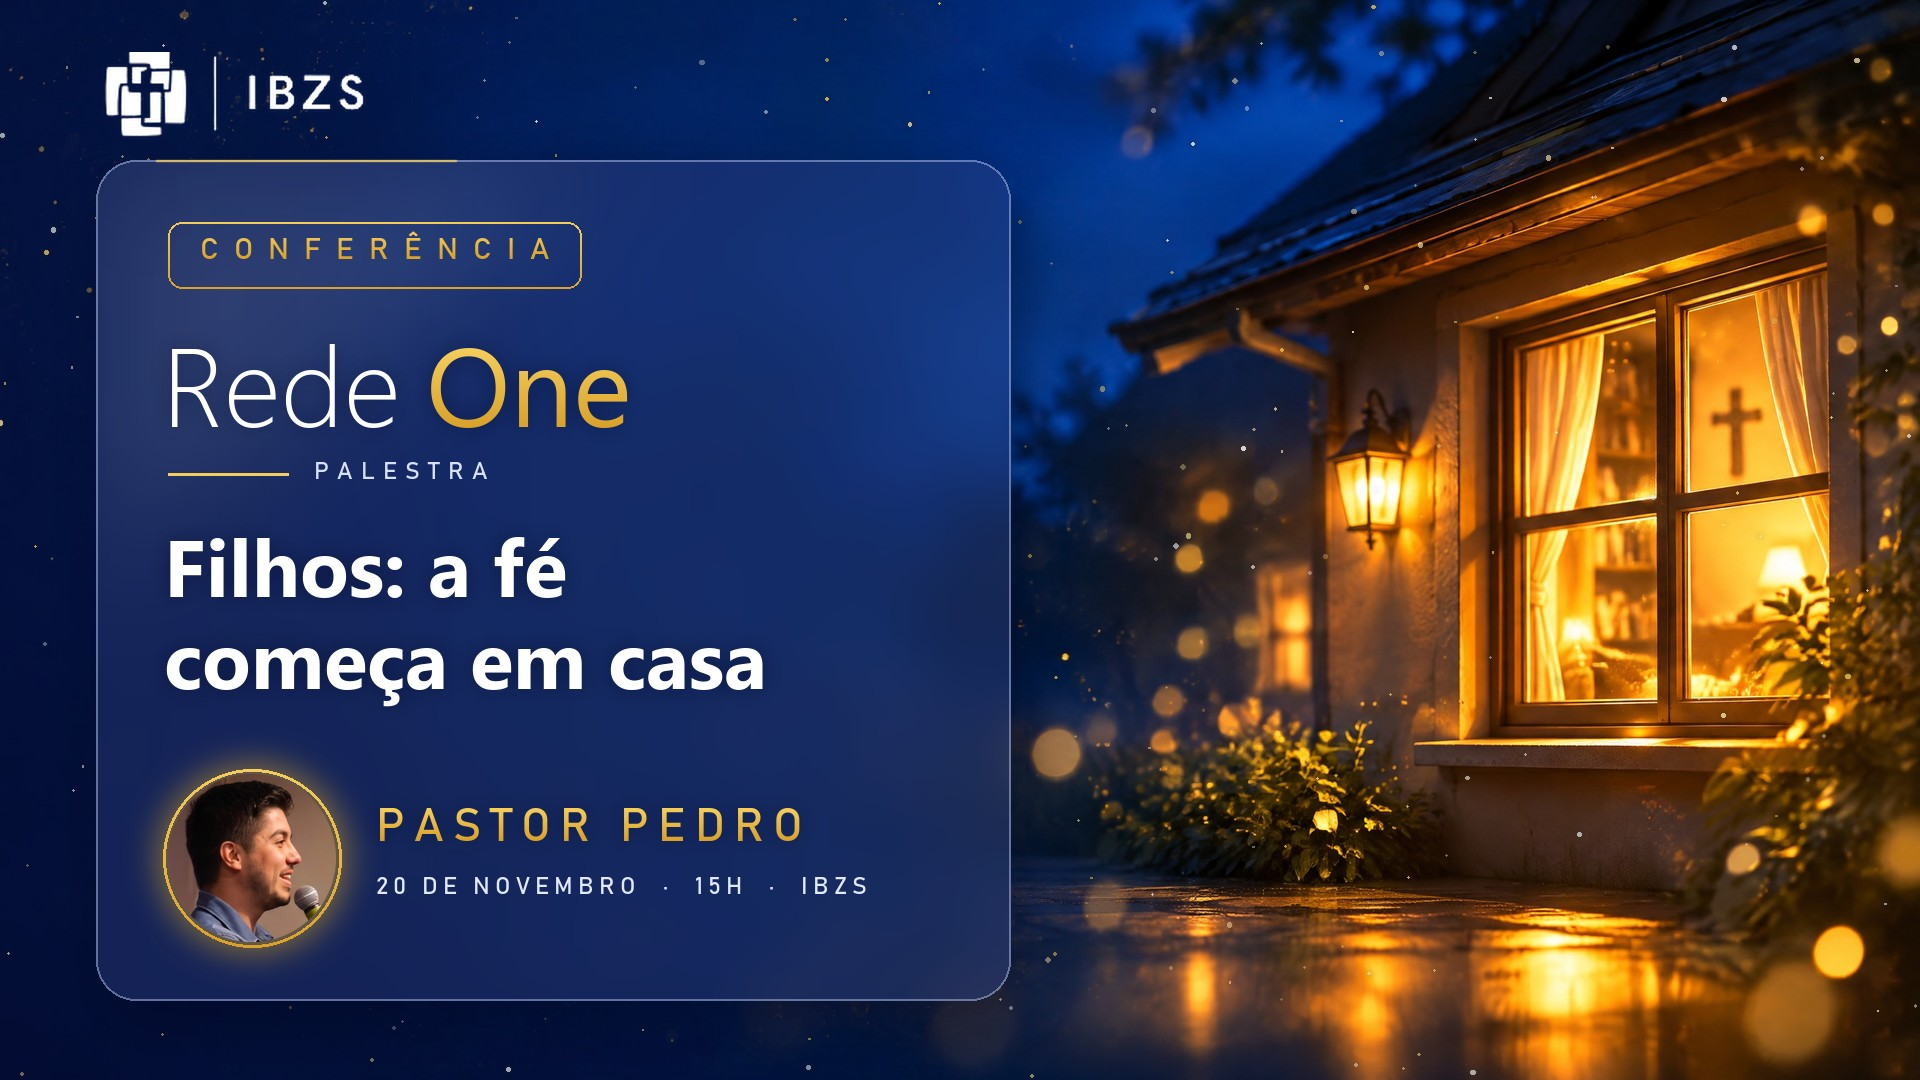
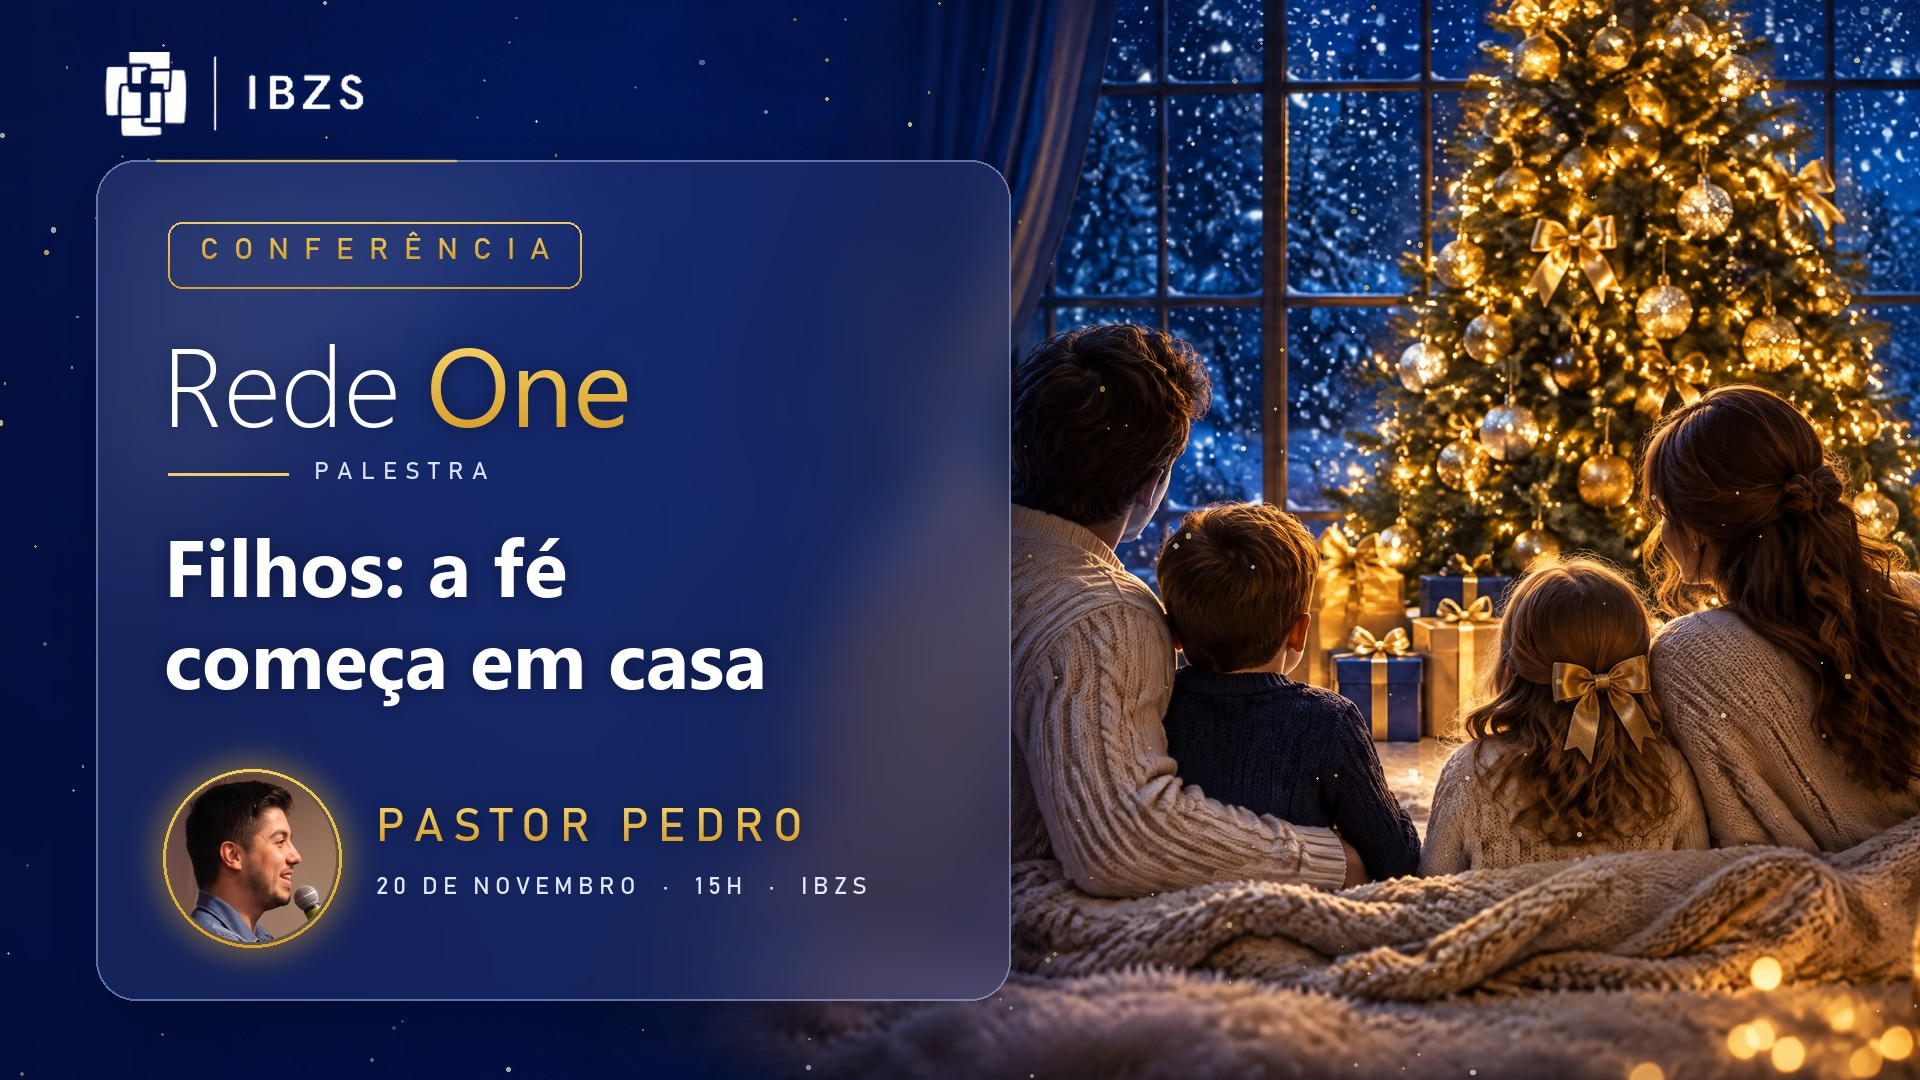
Capas novas, preparo para carga e passagem (em andamento)
- Capas v2: família no Natal (Pastor Pedro) e voluntários servindo (Pastor Paulo)
- Migração 005: consulta leve "estado", limites por IP e do PIN para o Wi-Fi da igreja
- Celular sem Realtime, consultando o estado a cada 12 s; sem a biblioteca do Supabase
- Edge Function com op "estado" e idle_timeout; teste de carga dev/teste-carga.mjs
- PASSAGEM.md: próximo passo é o pooler (300 celulares ainda dão erro por conexões)

diff --git a/web/perguntar.html b/web/perguntar.html
@@ -101,7 +101,6 @@
 </main>
 <div class="toast" id="toast"></div>
 
-<script src="https://cdn.jsdelivr.net/npm/@supabase/supabase-js@2.45.4/dist/umd/supabase.min.js"></script>
 <script src="config.js"></script>
 <script>
 (() => {
@@ -220,7 +219,7 @@
 
   async function carregar() {
     try {
-      const r = await redeoneApi("telao");
+      const r = await redeoneApi("estado");
       if (!r.ok) return;
       if (redeoneTelaCerta(r.evento.modo, "perguntar.html", "dinamica.html")) return;
       const ev = r.evento;
@@ -251,7 +250,11 @@
   modo(comNome);
   carregar();
   setTimeout(() => document.body.classList.remove("carregando"), 8000);   // sem internet: libera mesmo assim
-  redeoneAoVivo(carregar, 5000);
+  // Celulares não abrem conexão ao vivo (o Supabase grátis aceita só 200 de uma vez):
+  // consultam o estado a cada 12 s e na hora em que a pessoa volta para a tela.
+  setInterval(() => { if (!document.hidden) carregar(); }, 12000);
+  document.addEventListener("visibilitychange", () => { if (!document.hidden) carregar(); });
+  window.addEventListener("focus", carregar);
 })();
 </script>
 </body>

diff --git a/supabase/functions/redeone/index.ts b/supabase/functions/redeone/index.ts
@@ -3,7 +3,7 @@
 import postgres from "npm:postgres@3.4.5";
 import { createClient } from "npm:@supabase/supabase-js@2.45.4";
 
-const sql = postgres(Deno.env.get("SUPABASE_DB_URL")!, { prepare: false, max: 3 });
+const sql = postgres(Deno.env.get("SUPABASE_DB_URL")!, { prepare: false, max: 3, idle_timeout: 10, connect_timeout: 10 });
 const storage = createClient(Deno.env.get("SUPABASE_URL")!, Deno.env.get("SUPABASE_SERVICE_ROLE_KEY")!).storage;
 const SAL = "redeone-2026";
 
@@ -58,6 +58,11 @@ Deno.serve(async (req) => {
       const [r] = await sql`select redeone.responder_pastor(${evento}, ${String(b.texto ?? "")},
         ${b.nome ? String(b.nome) : null}, ${String(b.dispositivo ?? "")}, ${ip}) as r`;
       return json(r.r);
+    }
+    if (b.op === "estado") {   // consulta leve dos celulares
+      const [r] = await sql`select redeone.estado(${evento}) as r`;
+      if (!r.r) return json({ ok: false, erro: "evento" }, 404);
+      return json({ ok: true, ...r.r });
     }
     if (b.op === "telao") {
       const [r] = await sql`select redeone.telao(${evento}) as r`;

diff --git a/web/controle.html b/web/controle.html
@@ -606,7 +606,7 @@
   };
   $("img-banner").onclick = () => config({ banner_url: BANNER_OFICIAL }).then(() => toast("Banner oficial de volta"));
   // capas de cada palestra (feitas no Magnific), publicadas junto com o site em web/capas/
-  const CAPAS = { "rede-one-2026": "capas/capa-pastor-pedro.jpg", "rede-one-paulo": "capas/capa-pastor-paulo.jpg" };
+  const CAPAS = { "rede-one-2026": "capas/capa-pastor-pedro-v2.jpg", "rede-one-paulo": "capas/capa-pastor-paulo-v2.jpg" };
   function capaDe(id) { return CAPAS[id] ? new URL(CAPAS[id], location.href).href : null; }
   $("img-capa").onclick = () => config({ banner_url: capaDe(dados.evento_id), telao_modo: "imagem" }).then(() => toast("🎨 Capa da palestra no telão"));
 

diff --git a/PASSAGEM.md b/PASSAGEM.md
@@ -53,6 +53,24 @@ Limite de 1 pergunta / 30 s por aparelho, filtro de palavrão, tempo real, celul
   As duas palestras começam em Imagem. Migração 004 aplicada (bucket aceita imagens, `controle_zerar`).
 - Antes do evento: ⚙ → "Apagar perguntas e respostas desta palestra" limpa o ensaio.
 
+## Situação em 16/11/2026 (5ª etapa, PARADA NO MEIO, retomar daqui)
+- NO AR: site https://arthursergio-hue.github.io/redeone-perguntas/ (repo público arthursergio-hue/redeone-perguntas,
+  Pages publica `web/` a cada push) e Edge Function `redeone` v2 no Supabase da igreja. PIN real: arquivo fora do
+  repo (o Arthur sabe; 6 dígitos). Banco zerado, Pastor Pedro no telão, modo Imagem.
+- Capas novas (Magnific, 390 créditos no total): `capas/` e `web/capas/capa-pastor-{pedro,paulo}-v2.jpg`
+  (Pedro: família no Natal, sem cruz; Paulo: voluntários servindo). FALTA: depois do push, apontar
+  `banner_url` das duas palestras para as URLs `-v2` (hoje apontam para as antigas sem -v2, que saíram do site).
+- CARGA (pergunta do Arthur: "vai dar para várias pessoas ao mesmo tempo?"): teste `dev/teste-carga.mjs` com 300
+  celulares no mesmo IP deu 30–50% de erro 500. Causa nos logs: "sorry, too many clients already" — a função
+  abre conexão DIRETA no Postgres (SUPABASE_DB_URL) e esgota as vagas (afeta também o app da igreja!).
+  Já feito: migração 005 (consulta leve `estado`, limite por IP 600/min, PIN trava só com 40 erros), celular
+  sem Realtime e consultando `estado` a cada 12 s, função com idle_timeout.
+  FALTA (próximo passo): trocar a conexão da função para o POOLER do Supabase (Supavisor, modo transação,
+  porta 6543, usuário `postgres.kkhzmvcqcljptlntlmwm`, host `aws-1-us-east-1.pooler.supabase.com` (CONFIRMADO), mesma senha
+  do SUPABASE_DB_URL) com `max: 1`, ou cache curto do `estado`/`telao`. Estava descobrindo a região (script de
+  socket testando hosts). Depois: republicar a função, rodar de novo `REDEONE_PIN=... node dev/teste-carga.mjs 300`
+  até 0 falhas, conferir os logs e limpar (o script já zera a palestra no telão).
+
 ## Falta do Arthur
 Nome do endereço (sugestão `redeone-perguntas`), arquivo das apresentações, as 4 perguntas do Pastor Paulo.
 
